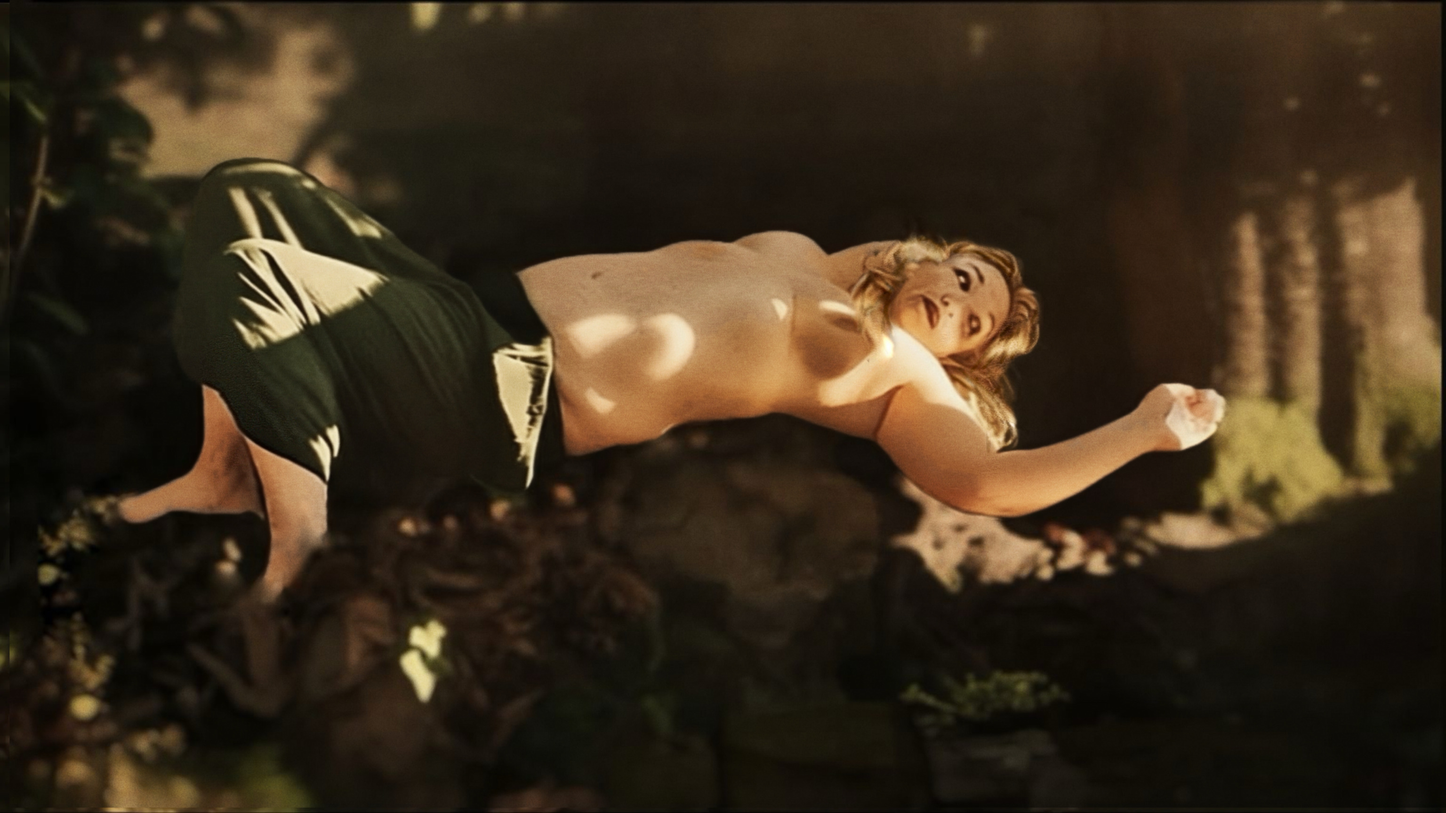
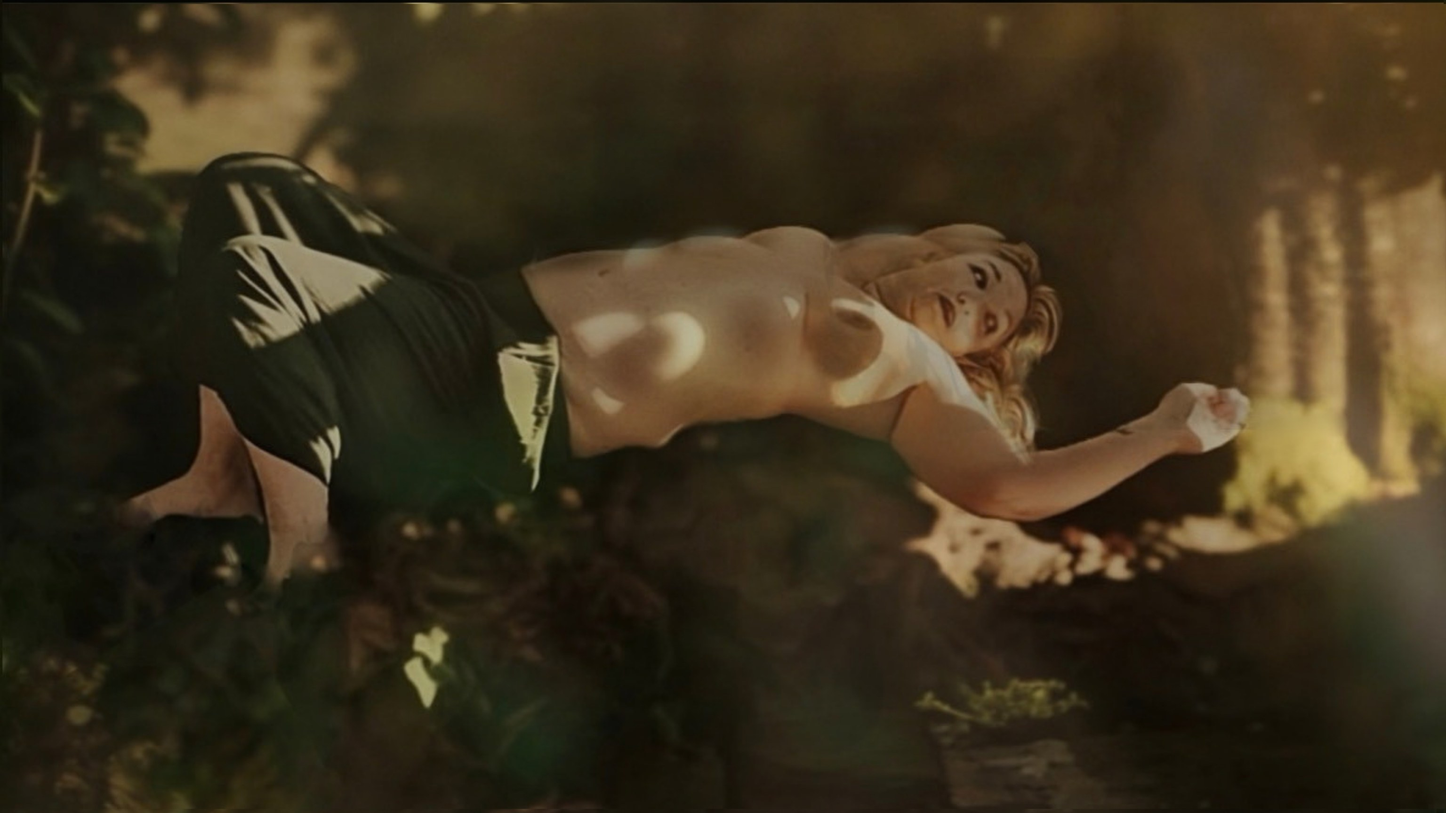
Daffodils: install reworked Hades and The Return; drop the AI clause
Generative-AI textures were replaced by hand in both collages, so the
Process statement no longer needs to name them.

Claude-Session: https://claude.ai/code/session_017CfwZAVzcE1XJqFP6CWfhU

diff --git a/lib/editorial.ts b/lib/editorial.ts
@@ -15,7 +15,7 @@ export const processStatement = [
   "Each body of work usually begins with a question, a physical state, or something I cannot quite reach through language. I carry that into a material, place, gesture, or repeated action and let the body enter it first.",
   "I rarely previsualize individual photographs in detail. I often use video, burst capture, or rapid sequences so the encounter can keep moving without stopping to compose every frame. The camera functions as both mirror and witness. It records what I am doing and also returns something I could not fully perceive from inside the experience.",
   "Selection comes afterward. Looking through the images often gives me information I did not have while I was making them. The photographs become traces of the encounter and a way of discovering what happened there.",
-  "When accidental blurs, distortions, light leaks, reflections, or other optical events belong to the inquiry, I keep them. Most images are minimally edited. A Miscarriage and Phase were made with a tintype-style app. Two works in This Morning I Was Gathering Daffodils are digital collages built from my own footage, and some of their textures began as generative AI material that I reworked by hand; their captions say so.",
+  "When accidental blurs, distortions, light leaks, reflections, or other optical events belong to the inquiry, I keep them. Most images are minimally edited. A Miscarriage and Phase were made with a tintype-style app. Two works in This Morning I Was Gathering Daffodils are digital collages built from my own footage; their captions say so.",
 ];
 
 export const fruitingBodyStatement = [
